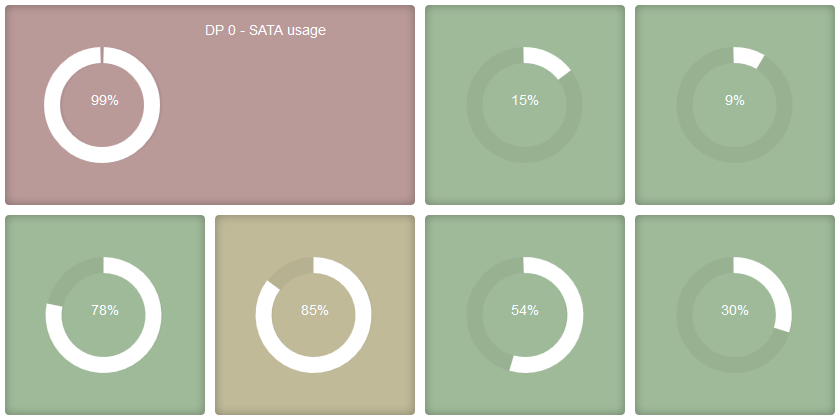
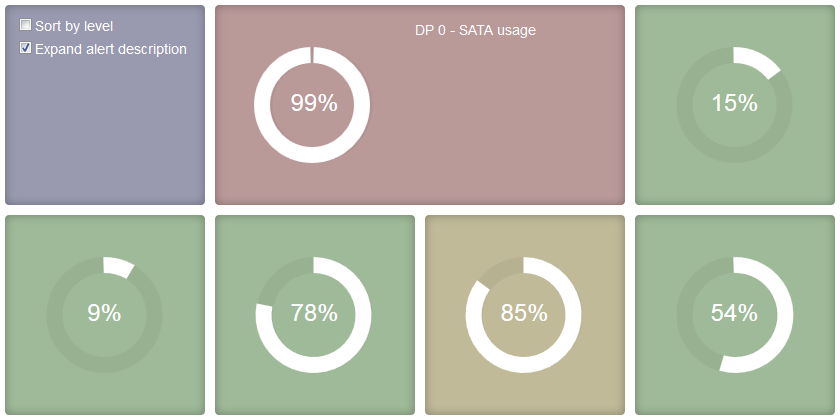
update look and feel, add controls for sorting

diff --git a/index.html b/index.html
@@ -7,60 +7,29 @@
 	<meta name="viewport" content="width=device-width, initial-scale=1" />
 	<!--[if lte IE 8]><script src="//cdnjs.cloudflare.com/ajax/libs/html5shiv/3.7.2/html5shiv.min.js"></script><![endif]-->
 	<script type="text/javascript" src="pie.js"></script>
+	<script type="text/javascript" src="main.js"></script>
 	<link rel="stylesheet" href="main.css" />
 </head>
 <body>
-	<div id="wrapper">
+	<div class="wrapper">
 		<noscript>
 			<p style="text-align:center;">You seem to have javascript disabled. This site won't work without it sorry :(</p>
 		</noscript>
-		<div class="metric">
-			<a href="#" class="button">Sort by warning</a>
-		</div>
+		<div class="metric" id="options"></div>
+		<span id="dynamic"></span>
 	</div>
 	<script type="text/javascript">
-		function makeRequest(url, callback) {
-			var httpRequest;
-			if (window.XMLHttpRequest) { // Mozilla, Safari, ...
-				httpRequest = new XMLHttpRequest();
-			} else if (window.ActiveXObject) { // IE
-				try {
-					httpRequest = new ActiveXObject("Msxml2.XMLHTTP");
-				} catch (e) {
-					try {
-						httpRequest = new ActiveXObject("Microsoft.XMLHTTP");
-					} catch (e) {}
-				}
-			}
-
-			if (!httpRequest) {
-				alert('Giving up :( Cannot create an XMLHTTP instance');
-				return false;
-			}
-			httpRequest.onreadystatechange = function() { 
-				if (httpRequest.readyState === 4) {
-					if (httpRequest.status === 200) {
-						callback(httpRequest.responseText);
-					} else {
-						alert('There was a problem with the request.');
-					}
-				}
-			};
-			httpRequest.open('GET', url);
-			httpRequest.send();
-		}
-
-		function parseJSONCallback(content) {
-			jsonblob = JSON.parse(content);
-			var wrapper = document.getElementById('wrapper');
-			// wrapper.innerHTML = '';
-			for (var i = 0; i < jsonblob.length; i++) { 
-			    new Pie(jsonblob[i].percent, jsonblob[i].description, i).renderTo(wrapper);
-			}
-		}
-
 		window.onload = function() {
-			makeRequest('/state.json?t=' + Date.now(), parseJSONCallback);
+			var oele = document.getElementById('options');
+			oele.appendChild(generateOptionElement('sortPriority', 'Sort by Percent'));
+			oele.appendChild(generateOptionElement('expandWarn', 'Expand Warnings'));
+			oele.appendChild(generateOptionElement('expandAlert', 'Expand Alerts'));
+
+			setTimeout(function getMetrics() {
+			    makeRequest('/state.json?t=' + Date.now(), parseJSONCallback);
+			    setTimeout(getMetrics, 60000);
+			}, 0);
+
 		}
 	</script>
 </body>

diff --git a/main.js b/main.js
@@ -1,0 +1,101 @@
+var OPTIONS = {'sortPriority': false, 'expandWarn': false, 'expandAlert': false };
+
+function toggleOption(opt) {
+	if (opt in OPTIONS) {
+		OPTIONS[opt] = !OPTIONS[opt];
+	}
+	setWindowHash();
+}
+function setWindowHash() {
+	var _keys = Object.keys(OPTIONS).filter(function(key) {return OPTIONS[key] === true})
+	var keys = _keys.map(function(obj){ return "#" + obj; });
+
+	location.hash = keys.join("");
+
+}
+function generateOptionElement(opt, description) {
+	var p = document.createElement("p");
+	var checkbox = document.createElement('input');
+	checkbox.type = "checkbox";
+	checkbox.onclick = function() { toggleOption(opt); };
+	checkbox.checked = OPTIONS[opt];
+
+	p.appendChild(checkbox);
+    var textNode = document.createTextNode(description);
+    p.appendChild(textNode);
+    return p;
+}
+
+(function() {
+	var winopts = window.location.hash.split("#");
+	for (var i = 0; i < winopts.length; i++) {
+		if (winopts[i] in OPTIONS) {
+			OPTIONS[winopts[i]] = !OPTIONS[winopts[i]];
+		}
+	}
+}());
+
+/* Sorters */
+function sortPriority(a,b) {
+  if (a.percent > b.percent)
+    return -1;
+  if (a.percent < b.percent)
+    return 1;
+  return 0;
+}
+
+
+
+
+
+
+/* Ajax stuff */
+function makeRequest(url, callback) {
+	var httpRequest;
+	if (window.XMLHttpRequest) { // Mozilla, Safari, ...
+		httpRequest = new XMLHttpRequest();
+	} else if (window.ActiveXObject) { // IE
+		try {
+			httpRequest = new ActiveXObject("Msxml2.XMLHTTP");
+		} catch (e) {
+			try {
+				httpRequest = new ActiveXObject("Microsoft.XMLHTTP");
+			} catch (e) {
+				// Do nothing
+			}
+		}
+	}
+
+	if (!httpRequest) {
+		alert('Giving up :( Cannot create an XMLHTTP instance');
+		return false;
+	}
+	httpRequest.onreadystatechange = function() { 
+		if (httpRequest.readyState === 4) {
+			if (httpRequest.status === 200) {
+				callback(httpRequest.responseText);
+			} else {
+				alert('There was a problem with the request.');
+			}
+		}
+	};
+	httpRequest.open('GET', url);
+	httpRequest.send();
+}
+
+function parseJSONCallback(content) {
+	var jsonblob = JSON.parse(content);
+	var wrapper = document.getElementById('dynamic');
+	wrapper.innerHTML = '';
+	console.log(OPTIONS);
+
+	if (OPTIONS['sortPriority']) {
+		jsonblob.sort(sortPriority);
+	}
+
+	for (var i = 0; i < jsonblob.length; i++) { 
+		new Pie(jsonblob[i].percent, jsonblob[i].description, i)
+			.renderTo(wrapper,  OPTIONS['expandAlert'], OPTIONS['expandWarn']);
+	}
+}
+

diff --git a/pie.js b/pie.js
@@ -54,9 +54,10 @@
 	    // Percent text
 	    var text = document.createElementNS(svgns, "text");
 	    text.setAttributeNS(null, "text-anchor", "middle");
+	    text.setAttributeNS(null, "font-size", "24px");
 	    text.setAttributeNS(null, "fill", "#fff");
 	    text.setAttributeNS(null, "x", parseInt(svg.getAttribute('width')) / 2);
-		text.setAttributeNS(null, "y", parseInt(svg.getAttribute('height')) / 2);
+		text.setAttributeNS(null, "y", parseInt(svg.getAttribute('height')) / 2 + 6);
 	    var textNode = document.createTextNode(percent + "%");
 		text.appendChild(textNode);
 
@@ -78,13 +79,23 @@
     	this._description = description;
     }
 
-    Pie.prototype.renderTo = function(container) {
+    Pie.prototype.renderTo = function(container, expandAlert, expandWarn) {
+    	var expandAlert = expandAlert || false;  // Auto expand alert 
+    	var expandWarn = expandWarn || false;  // Auto expand warning
+
     	var metric = document.createElement('div');
+    	metric.setAttribute('data-percent', this._percent);
     	metric.className = "metric";
     	if (this._percent >= 95) {
     		metric.className += " alert";
+    		if (expandAlert) { 
+    			metric.style.width = "410px";
+    		}
     	} else if (this._percent >= 80) {
     		metric.className += " warn";
+    		if (expandWarn) { 
+    			metric.style.width = "410px";
+    		}
     	} else {
     		metric.className += " normal";
     	}

diff --git a/main.css b/main.css
@@ -12,12 +12,12 @@ body {
 	min-height: 100%;
 	color: #fff;
 }
-#wrapper {
+.wrapper {
 	margin: 0 auto;
 	background-color: #fff;
 	padding: 5px;
 }
-#wrapper:after {
+.wrapper:after {
     content:'';
     display:block;
     clear: both;
@@ -57,43 +57,34 @@ body {
 	width: 200px;
 	font-size: 14px;
 }
-.metric .button {
-	display: inline-block;
-	text-decoration: none;
-	border: 2px solid #fff;
-	color: #fff;
-	font-weight: bold;
-	background-color: rgba(0,0,0,0.2);
-	border-radius: 4px;
-	margin: 20px;
-	padding: 3px 7px;
+#options {
+	padding: 10px;
 }
-.metric .button:active {
-	box-shadow: 0 0 9px 0 rgba(0,0,0,0.4);
-	outline: none;
+#options > p {
+	margin: 0;
 }
 
 @media (min-width: 420px) {
-	#wrapper { width: 420px; }
+	.wrapper { width: 420px; }
 }
 @media (min-width: 630px) {
-	#wrapper { width: 630px; }
+	.wrapper { width: 630px; }
 }
 @media (min-width: 840px) {
-	#wrapper { width: 840px; }
+	.wrapper { width: 840px; }
 }
 @media (min-width: 1050px) {
-	#wrapper { width: 1050px; }
+	.wrapper { width: 1050px; }
 }
 @media (min-width: 1260px) {
-	#wrapper { width: 1260px; }
+	.wrapper { width: 1260px; }
 }
 @media (min-width: 1470px) {
-	#wrapper { width: 1470px; }
+	.wrapper { width: 1470px; }
 }
 @media (min-width: 1680px) {
-	#wrapper { width: 1680px; }
+	.wrapper { width: 1680px; }
 }
 @media (min-width: 1890px) {
-	#wrapper { width: 1890px; }
+	.wrapper { width: 1890px; }
 }
